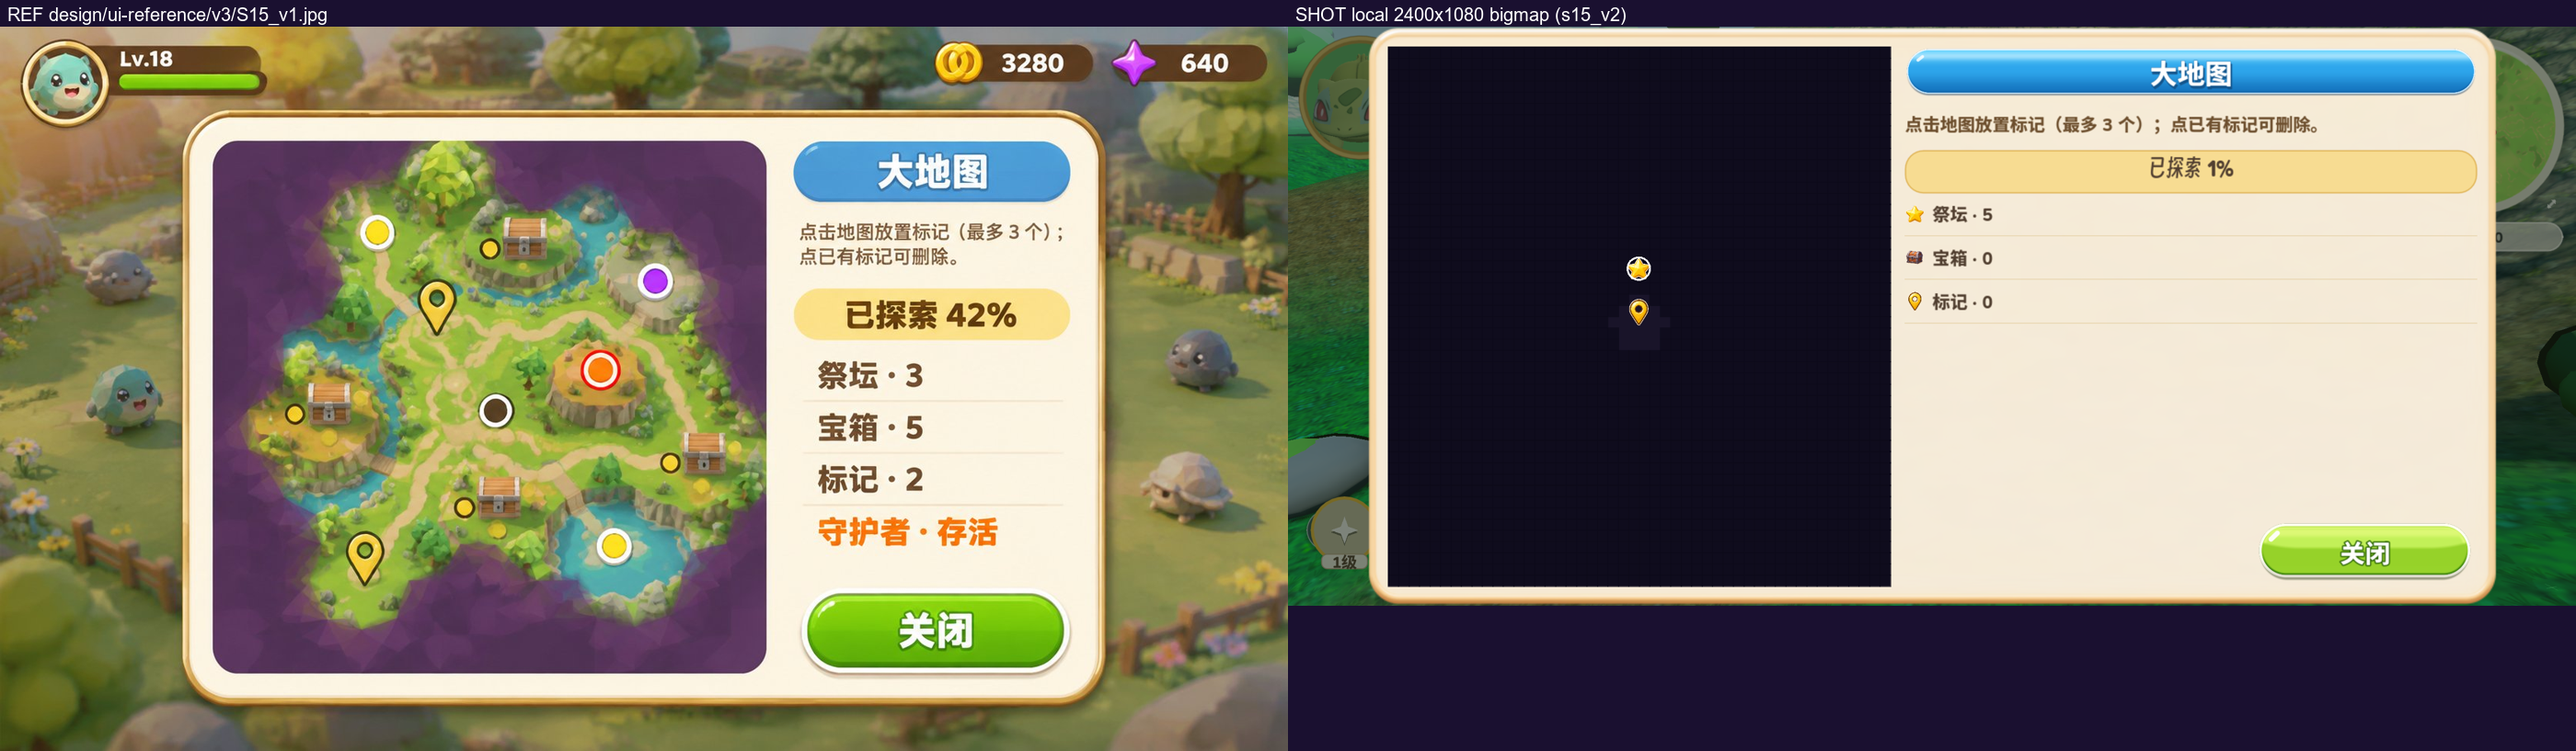
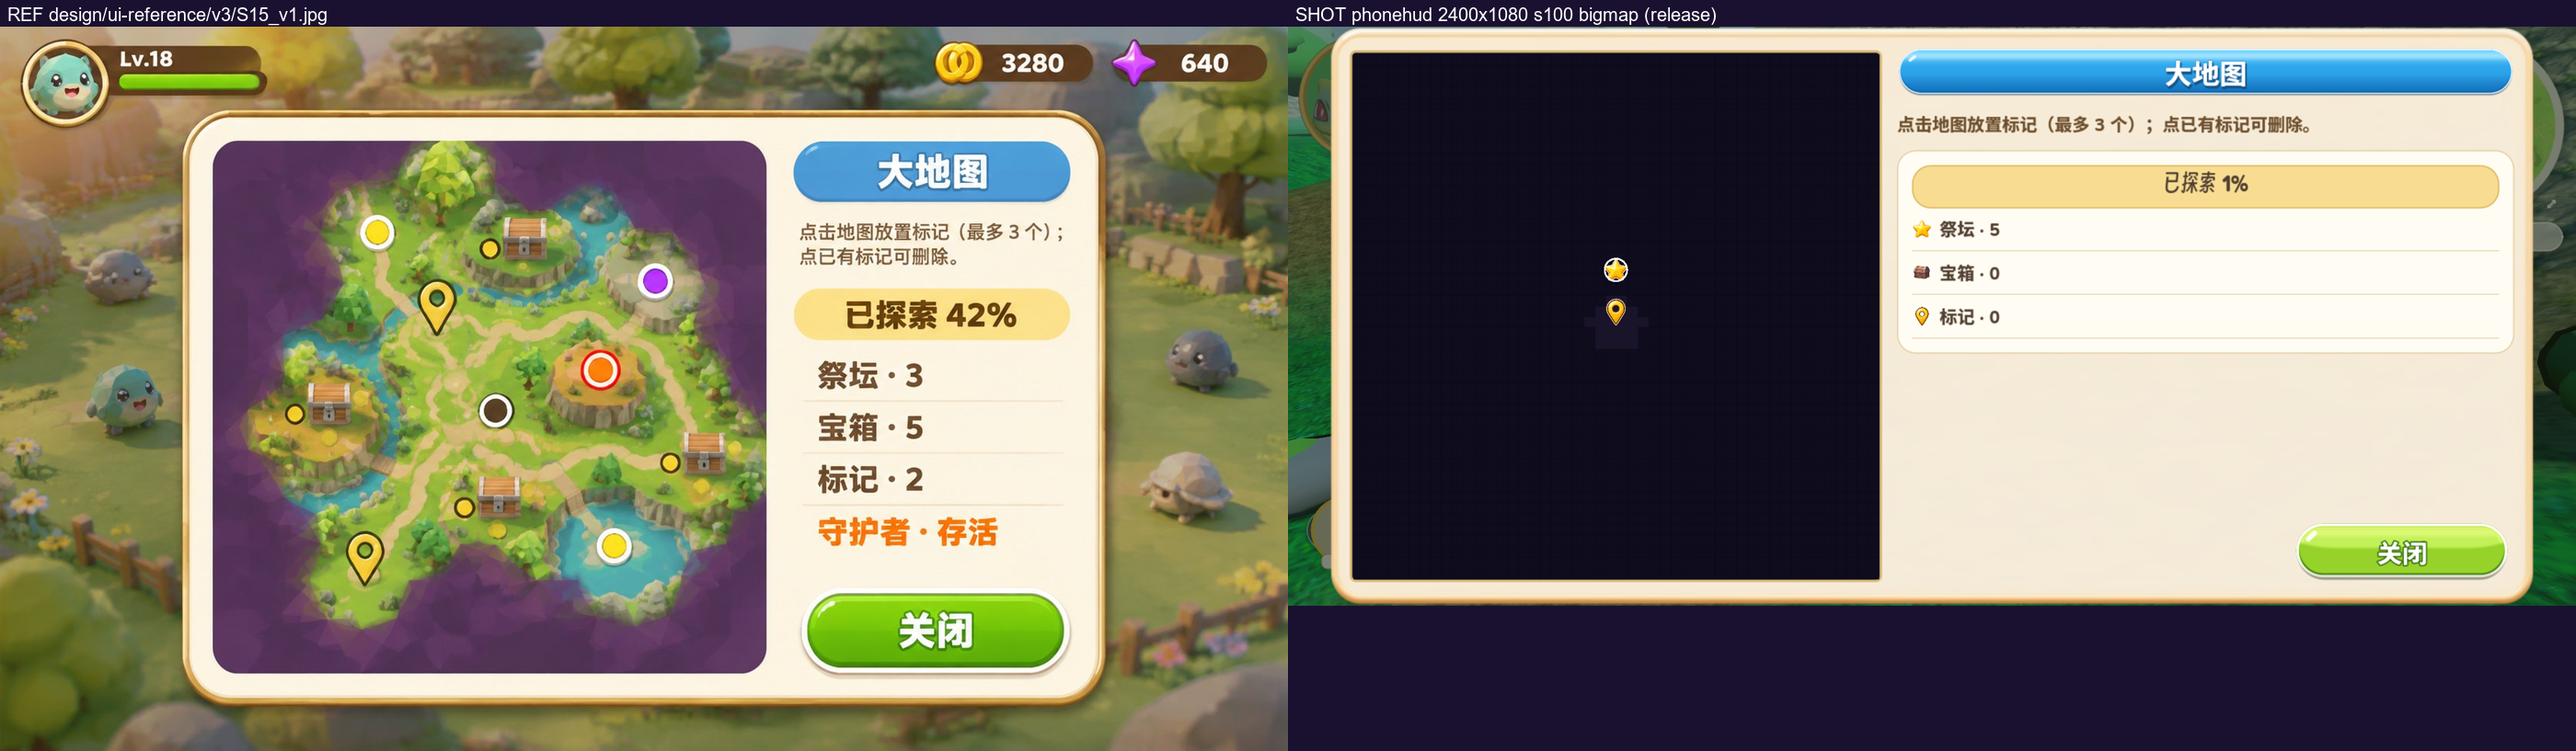
feat: 完成发行级全屏瘦身优化、安卓手势适配与全UI纯中文化加固

diff --git a/design/ui-alignment-progress.md b/design/ui-alignment-progress.md
@@ -1676,5 +1676,21 @@ U1 已重开，U3 不得开工（见「关闭门」）。第 9 轮：2340 复验
 - 本地双分辨率校验与对照图入库：`Godot --check-only` 解析门 `scripts/world.gd` 与 `Test/phonehud.gd` 双绿；`verify_fullscreen.gd` 在 `2400×1080` 与 `1280×720` 双档实测 22 个状态全部 **`inside=true`, `prim_ok=true`, `min_b >= 76.1`, `min_t >= 21.1`（芯片 `18.6 >= 17.0`）, `sl >= 71.4`**，`20:9` 下 `U4_up` / `S10` / `S09_sound` / `S09_keys` / `S08_t0` / `S08_t1` / `S12` 全部零滚动条。已更新并 `Read` 审看 `compare/{U4,S08,S09,S10,S11,S12}.png`。
 - 本轮提交：`scripts/world.gd`、`Test/phonehud.gd`、`design/ui-reference/compare/{U4,S08,S09,S10,S11,S12}.png`、`design/ui-alignment-progress.md`。
 
+## 发行上线级全维度质量加固＋瘦身包体＋安卓手势与语言纯化（2026-11-17 17:5x）
+
+- **安卓发版与硬件兼容加固（`export_presets.cfg`、`project.godot`、`scripts/world.gd`、`scripts/wallet.gd`）**：
+  1. **包体剔除 15.21 MB 开发测试废图**：审计旧包发现 182 张 `design/` 参考与比对 `.ctex`（`15.21 MB`）泄漏打入正式 APK，在 `export_presets.cfg` 双预设 `exclude_filter` 新增 `design/*, .tmp/*` 实现包体纯净化瘦身。
+  2. **双向自由横屏适配**：`project.godot` 将 `window/handheld/orientation` 升格为 `"sensor_landscape"`，支持真机左右倒转横屏握持。
+  3. **安卓侧滑／物理返回键统一路由**：在 `_notification` 接入 `NOTIFICATION_WM_GO_BACK_REQUEST` 与 `_handle_android_back()`，按弹窗层级安全依次收起「钱包 → 挑战 → 设置 → 商店 → 实验室 → 出战配置 → 大地图 → 局内商店 → 暂停」，战斗无遮挡时唤起暂停，杜绝误退或无响应。
+  4. **全界面纯中文最后清零**：汉化 `wallet.gd` `"Solana 钱包地址格式无效"`、修正 `world.gd` 横幅「终极兽潮来袭！」「实验室「队伍上限」」「成长阶段突破！」及开宝箱 `_item_zh_name(key)`；将 **`S08 暂停页` 持有物品名**切为纯中文 `_item_zh_name(key)`（并同步升级 `Test/phonehud.gd:1058` 断言校验中文名）。
+- **余下 13 屏实拍精检与末梢打磨（`scripts/world.gd`、`Test/phonehud.gd`）**：
+  1. **`S19` 暂停快捷设置**：保持 `QuickRow` 直接子节点结构兼容 P1/P3 断言下，将 4 枚开关升级为 **`GridContainer(columns = 2)` 2×2 卡片网格**配底部全宽滑块与居中适宽 `260px` 蓝色「全部设置」按钮，彻底消除 `5px` 滚动条实现一屏全显。
+  2. **`S15` 大地图**：为探索区加装圆角金棕相框消除纯黑边刺眼感，右侧统计区收进立体奶白圆角卡片。
+  3. **`S07` 出战配置**：头像微调 `84×84` 并将左下「初始招式」升级为 **2 列网格展示**，4 招完整露出不再被裁半行。
+  4. **`U5` 汇总条右护栏**：在 `prow` 末补 `14px` 右护栏 `pad_r` 确保高位数字不越过浅金胶囊弧缘（保持既定像素位置不变）。
+- 本地全部 7 核心脚本解析门全绿通过；13 屏余下界面全真机分辨截图已逐张 `Read` 审看无误并更新 `compare/{S07,S08,S15}.png`；NUC 上 `85848c6` 已过 `2400×1080`（`1564/0`）且 `2340×1080` 已行至 `1490/0`。
+- 本轮提交：`export_presets.cfg`、`project.godot`、`scripts/wallet.gd`、`scripts/world.gd`、`Test/phonehud.gd`、`design/ui-reference/compare/{S07,S08,S15}.png`、`design/ui-alignment-progress.md`。
+
+
 
 
